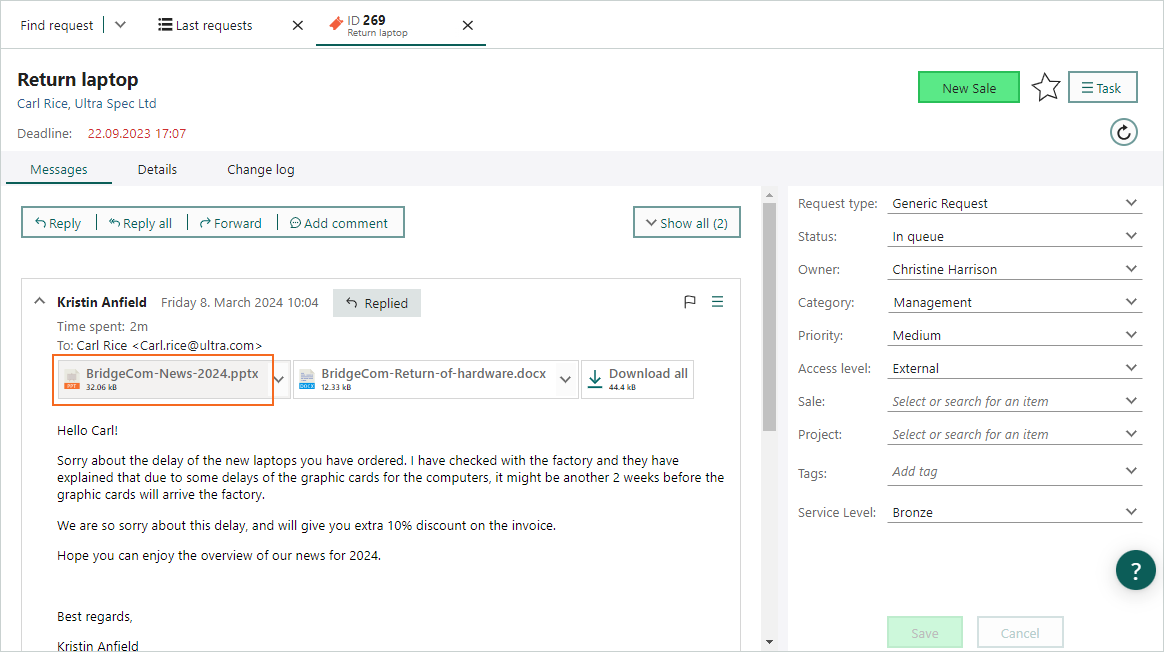
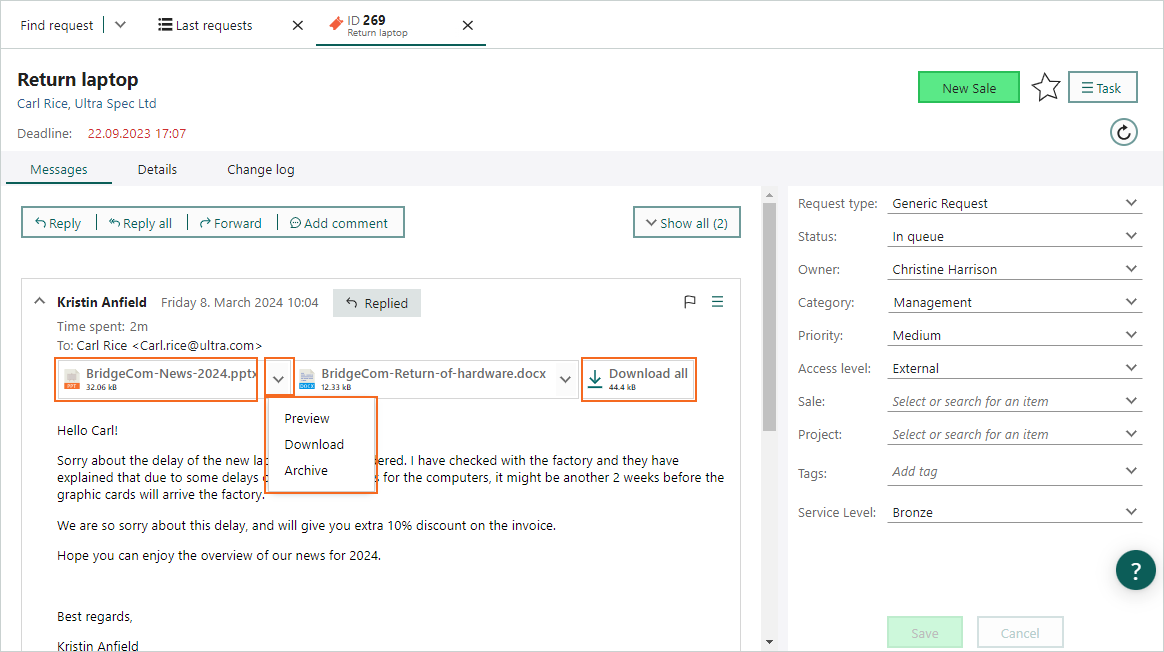
#1103 Changed 10.3.2 content to tips&tricks text

Changed region(s): [[0.0309, 0.5215, 0.3402, 0.7669]]

diff --git a/release-notes/10.3/admin/10.3.2-update.md b/release-notes/10.3/admin/10.3.2-update.md
@@ -21,35 +21,31 @@ With multiple [request types][1], you can streamline your work based on customer
 
 ![Settings and maintenance - Requests - Add Invoice request as Request types -screenshot][img4]
 
-## Screen designer - Assign layouts to request types
+## Screen designer for Requests - Assign layouts to Request types or User group
 
-To optimize the workflow for users handling requests, it is crucial to tailor the request layout effectively. This is particularly valuable when dealing with diverse request types, such as regular problem-solving requests and invoice requests.
+To make the working cycle for requests as smooth as possible for the users, you should have customised the layout for requests as good as possible. If there are different types of requests like normal problem-solving requests and invoice requests there is a good starting point to set this up.
 
-In the **Screen designer** for **Requests** layout, you can choose to [assign request layouts][4] based on request type instead of user group (in the **Used by** field).
+In **Screen designer** for **Requests layout** you need to choose the **assigned layout** method, and there you have two options: **User group** or **Request types**. If you choose **User group**, the different layouts for requests will be dedicated to the user group the assigned user belongs to. With the option to select **Request types**, you can choose the layouts based on your request types (added under Requests).
 
-1. First select assignment method (user group or request type). 
+![Settings and maintenance - Screen designer Requests - Select Assign layout -screenshot][img1]
 
-    * **User group:**, distinct request layouts are specific to the user group a person belongs to (and always the same for the user).
+In this example a request type for **Invoice request** is added, and in this layout it's important to add the **Invoice number** to be shown in the **Properties sidebar** of the request ([a field is added][2] for invoice on the request table in **System design**).
 
-    * **Request types:**, allows you to align layouts with your designated request types (each user sees different screens depending on the type).
-
-    ![Settings and maintenance - Screen designer Requests - Select Assign layout -screenshot][img1]
-
-2. Then select the specific groups or types.
-
-    ![Settings and maintenance - Screen designer Requests - Assign layout to Request types -screenshot][img3]
-
-In this example a request type for **Invoice request** is added, and in the layout it is important to add the **Invoice number** to be shown in the **Properties sidebar** of the request ([a field is added][3] for invoice on the request table in **System design**).
-
+![Settings and maintenance - Screen designer Requests - Assign layout to Request types -screenshot][img3]
 
 ![Settings and maintenance - Screen designer Requests - Add Invoice as field -screenshot][img2]
+
+**Learn more about**:
+
+* [Extra fields][3]
+* [Configurable screens][4]
+* [Create request types][2]
 
 <!-- Referenced links-->
 [1]: ../../../docs/en/request/learn/type/index.md
 [2]: ../../../docs/en/request/learn/type/create.md
 [3]: ../../../docs/en/custom-objects/learn/extra-field.md
 [4]: ../../../docs/en/ui/screen-designer/configurable-screens/assign-layout.md
-
 
 <!-- Referenced images -->
 [img1]: ../../../docs/media/loc/en/ui/admin-screendesigner-request-select.png

diff --git a/release-notes/10.3/core-crm/10.3.2-update.md b/release-notes/10.3/core-crm/10.3.2-update.md
@@ -17,39 +17,41 @@ so.audience.tooltip: SuperOffice CRM
 
 You can decline meetings in your diary that do not fit your schedule. If your calendar changes and you can now attend a previously declined meeting, it is simple to accept it.
 
-1. Click **Show invitations I have declined** in the Notification panel's footer.
-2. Find the meeting you can now attend, and click **Accept**.
+You can accept the declined meeting by clicking the link  **Show declined meetings** in the footer over Notifications pop out panel, find the one meeting you can now attend, and click **Accept**.
 
-![Notifications - Show declined meetings -screenshot][img4] ![Notifications - Invitations I have declined -screenshot][img5]
+![Notifications - Show declined meetings -screenshot][img4]
+
+![Notifications - Invitations I have declined -screenshot][img5]
 
 ## Dashboard - New default Requests dashboard
 
-The new default **Requests** dashboard provides an overview of your response and closing times, with various tiles displaying request status analytics.
+When managing Service and requests, it is crucial to have an overview of your response and closing times. The default **Requests** dashboard provides this overview with various request tiles displaying your request status analytics.
 
-To access it:
+Go to **Dashboard** and search for "request".
 
-1. Go to **Dashboard**.
+![Dashboard - Search for Requests dashboard -screenshot][img1]
 
-2. Search for "request".
+Here you will see an overview of your request status with different important tiles.
 
-    ![Dashboard - Search for "request" in dashboards -screenshot][img1]
+![Dashboard - Default Requests dashboard -screenshot][img2]
 
-3. You will see an overview of your request status.
-
-    ![Dashboard - Default Requests dashboard -screenshot][img2]
-
-4. You can customize this dashboard to meet your needs by clicking **Task**, selecting **Add tile/Edit layout**, and choosing the important tiles.
+And it's easy to fine tune this request dashboard to meet your needs. Just click **Task** and select **Add tile/Edit layout** and select the tiles that is important for you.
 
 ## Dashboard - New standard request tiles
 
-We have added new standard tiles for requests in versions 10.3.1 and 10.3.2 to help you create an effective dashboard. These include:
+To help you create an effective request dashboard, we have added some new standard tiles for requests (both in 10.3.1 and 10.3.2 version). See the overview below:
 
-* Average closing time by category/user
-* Average response time by category/user
+* Average closing time by category
+* Average closing time by user
+* Average response time by category
+* Average response time by user
 * Customers with the most open requests
-* My average response/closing time
-* My open requests and requests with passed deadline
-* Open requests by priority/user
+* My average response time
+* My average closing time
+* My open requests
+* My requests with passed deadline
+* Open requests by priority
+* Open requests by user
 * Request by category
 * Requests created this month
 * Unassigned requests

diff --git a/release-notes/10.3/service/10.3.2-update.md b/release-notes/10.3/service/10.3.2-update.md
@@ -13,19 +13,21 @@ so.audience.tooltip: SuperOffice Service
 
 # Service 10.3.2 update
 
-## Request types for efficient support
+## Request types - to get efficient support
 
-With multiple [request types][3], you can streamline your work based on customer needs.
+With the option to have multiple [request types][3], you can streamline your work depending on your customers and incoming requests. The fields showing on the Request properties sidebar might then vary depending on your setup of the [Request layout][1] in your **Screen designer**.
 
-![Request properties sidebar - with Invoice number -screenshot][img2]
+![Request properties sidebar - Request types drop down -screenshot][img2]
 
-The fields displayed on the Request properties sidebar can vary based on your configuration of the [Request layout][1] in the **Screen designer**.
-
-If you frequently receive invoice-related requests, consider [adding a request type][4] with a customized layout, including a designated field for invoice numbers. This approach enhances efficiency when handling such requests.
+If you get several requests regarding invoices, it's a good idea to create a [request type][1] for this and a specific request layout that includes a field for invoice number, and doing so you can work more efficient with these types of requests.
 
 ![Request properties sidebar - with Invoice number -screenshot][img1]
 
-Effortlessly locate a particular invoice number and gain insights into the quantity of requests for a specific type using the [new request dashboard tiles][2].
+It's easy to search for a specific invoice number and also get an overview in [**Dashboards**][2] on how many requests for a specific type you have.
+
+**Learn more about**:
+
+* [How to create Request types][4]
 
 <!-- Referenced links-->
 [1]: ../admin/10.3.2-update.md

diff --git a/release-notes/10.3/index.md b/release-notes/10.3/index.md
@@ -19,6 +19,9 @@ so.topic: reference
 
 ### SuperOffice CRM
 
+* 10.3.3 (12.03.2024):
+  * [Request - simplify attachment handling (10.3.3)][18] in Service
+
 * 10.3.2 (20.02.2024):
   * [Notifications - Show invitations I have declined (10.3.2)][12] in Core CRM
   * [Dashboard - Request dashboard and tiles (10.3.2)][12] in Core CRM
@@ -43,15 +46,16 @@ Latest released versions:
 
 * Zapier 3.4 (21.12.2023)
 * SuperOffice for Outlook 4.1 (21.12.2023)
-* WebTools for Windows 12.8 (05.10.2023)
+* WebTools for Windows 13.0 (06.03.2024)
+* WebTools for Mac 12.0 (10.11.2022)
 * SharePoint Documents 3.2 (24.09.2023)
 * SuperOffice for Gmail 2.9 (24.09.2023)
 * Video Meetings 2.5 (18.09.2023)
-* WebTools for Mac 12.0 (10.11.2022)
 
 ### Other highlights
 
 * **SuperOffice App store** - [New or updated apps][5]
+  * [Amesto PowerBI for SuperOffice (08.02.2024)][19]
   * [Exact for SuperOffice (02.02.2024)][16]
   * [Documendo Webforms (24.01.2024)][15]
   * [ITX UC (05.11.2023)][17]
@@ -79,5 +83,7 @@ Latest released versions:
 [15]: https://appstore.superoffice.com/siteshop-aps/documendo-webforms
 [16]: https://appstore.superoffice.com/all-crm/exact-for-superoffice
 [17]: https://appstore.superoffice.com/itx-norge-as/itx-uc
+[18]: service/10.3.3-update.md
+[19]: https://appstore.superoffice.com/amesto-solutions-a-s/amesto-insight
 
 <!-- Referenced images -->

diff --git a/release-notes/10.3/service/10.3.3-update.md b/release-notes/10.3/service/10.3.3-update.md
@@ -4,21 +4,21 @@ uid: news-service-10.3.3
 description: Release notes. What's new in SuperOffice Service 10.3.3
 author: SuperOffice AS – Research and Development
 so.date: 03.02.2024
-keywords: service, request, attachment
+keywords: service, request, attachment, download, preview, archive
 so.version: 10.3.3
 so.topic: reference
 ---
 
 # Service 10.3.3 update
 
-## Request - Simplify Attachment Handling
+## Request - simplify attachment handling
 
 When dealing with requests, attachments often hold the key to crucial information. Now, streamline your workflow:
 
-* **Preview** with a **single click**: Confirm relevance swiftly.
-* **Download** with a **double click**: No fuss, just efficiency and get the attachment downloaded.
+* **Preview** with a **single click**: Confirm relevance quickly.
+* **Download** with a **double click**: Efficiency download the one attachment.
 
-Still want options? Click the arrow for the options or grab all attachments in a zip file. But remember, less clicking means more productivity!
+Still want options? Click the **arrow** for the options: Preview, Download or Archive. Or you can simply click the **Download all** button to create a zip file.
 
 ![Request attachment - single/double click -screenshot][img1]
 

diff --git a/release-notes/10.3/service/index.md b/release-notes/10.3/service/index.md
@@ -13,10 +13,11 @@ so.audience.tooltip: SuperOffice Service
 
 # New and improved Service
 
-* [Request types for efficient support (10.3.2)][4]
+* [Request - simplify attachment handling (10.3.3)][5]
+* [Request types - for efficient support (10.3.2)][4]
 * [Right-click to take ownership of requests (10.3.1)][1]
 * [Show SAINT status monitor on Requests screen (10.3.1)][1]
-* [System design - show extrafield in Request Properties sidebar (10.3.1)][2]
+* [System design - show extra-field in Request Properties sidebar (10.3.1)][2]
 * [Dashboard - Request tiles (10.3.1)][3]
 
 <!-- Referenced links-->
@@ -24,3 +25,4 @@ so.audience.tooltip: SuperOffice Service
 [2]: ../admin/10.3.1-update.md
 [3]: ../core-crm/10.3.1-update.md
 [4]: 10.3.2-update.md
+[5]: 10.3.3-update.md
